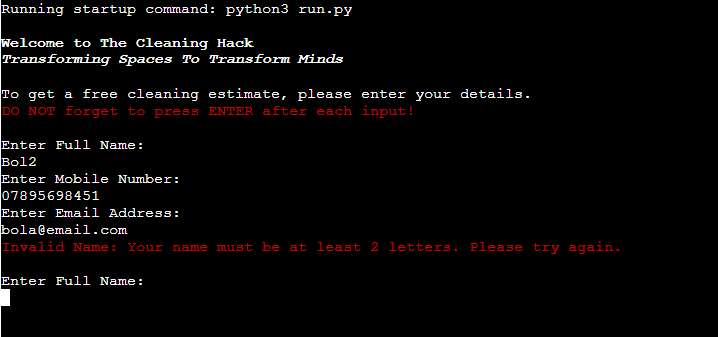
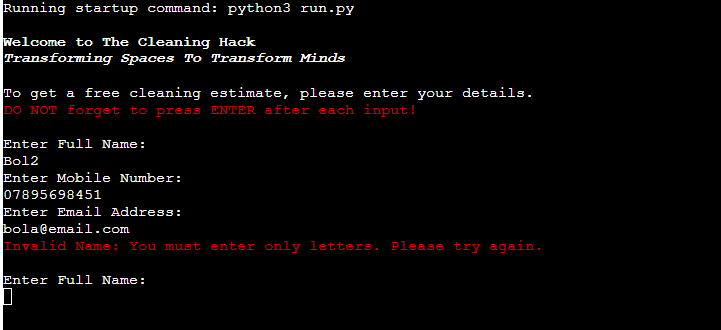
Recode name validation function

diff --git a/run.py b/run.py
@@ -97,12 +97,10 @@ def validate_name(name):
     """
     try:
         # Character length check inspired by Alan Bushell, Mentor
-        if name == '' and len(name) < 2:
-            raise ValueError('Name must be at least 2 letters')    
-        if not re.match('^([a-z]+)( [a-z]+)*( [a-z]+)*$', name):
-            raise ValueError('You must enter only letters')
-        if not name.split(' '):
-            raise ValueError('Name must be letters only')    
+        if name == '' or len(name) < 2 or not name.isalpha():
+            print(f'Name must be at least 3 letters')    
+        elif name.split(sep=" ", maxsplit=1):
+            print('Name has too many spaces')    
     except ValueError as e:
         print(Fore.RED + f'Invalid Name: {e}. Please try again.')
         print(Style.RESET_ALL)
